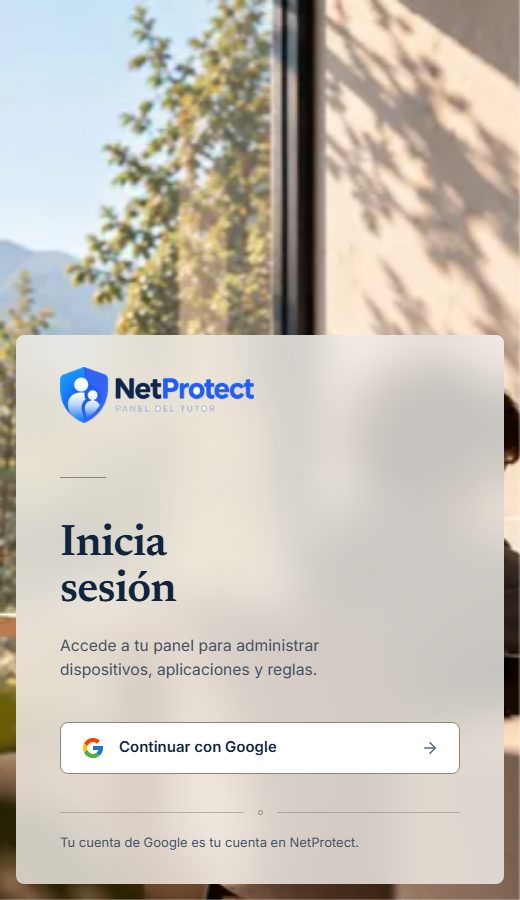
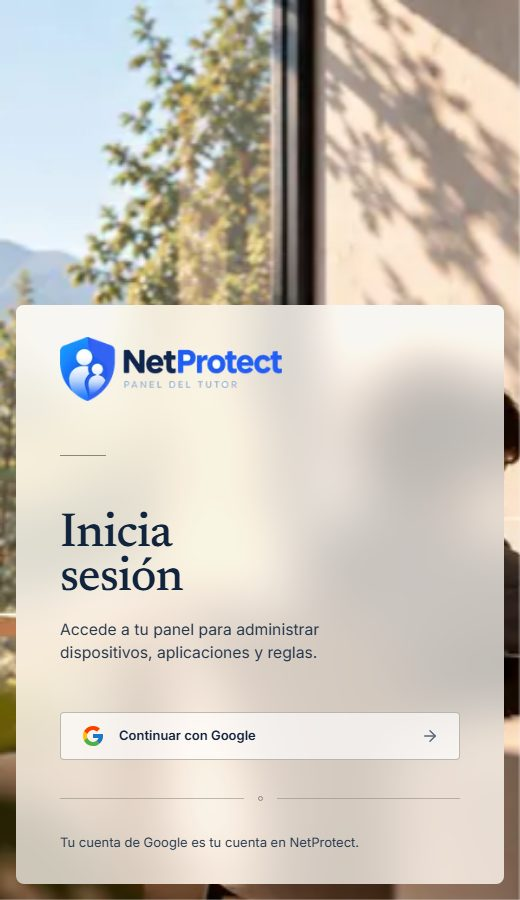
fix(web): login mas transparente y ajustado a la referencia (S60)
Tras ver el login en el navegador, el dueno pidio mas transparencia en el panel y ajustar
letras, espacios y tamanos a mock-01-login.jpg.

La foto del paquete es identica a study.jpg: la pared lisa de la referencia es un montaje y
no existe en la foto, que tiene la ventana con arboles justo bajo el panel. Un cristal solo
mas transparente salia gris, asi que el panel usa 60 % de crema (75 % en movil) con
backdrop-filter blur 28, brightness 1.5 y saturate .9: la luminosidad media bajo la franja
queda en 0,74 frente a 0,75 de la referencia.

Las proporciones se leyeron de la referencia: franja del 28,5 % que empieza al 6,5 %,
contenido a 4,5 % del borde y bloque que arranca al 12 % de la altura. Logo de 64 px, titulo
de 5,3vw con peso 500 (se anade a la fuente; solo se descarga si se usa), boton de Google
mas pequeno, con esquinas cortas y placa clara translucida.

Contraste medido con la foto real: titulo 5,8-6,1:1 y textos pequenos 4,6-4,9:1 en
escritorio; en movil el 60 % daba 4,35:1, por eso usa el 75 %. Quedan como diferencias
conocidas el logo oficial y la franja izquierda con arboles. Capturas en docs/redesign/s60.

Changed region(s): [[0.0923, 0.56, 0.8923, 0.8711], [0.0308, 0.3111, 0.9846, 0.4667]]

diff --git a/frontend/src/components/login/LoginScreen.module.css b/frontend/src/components/login/LoginScreen.module.css
@@ -27,9 +27,13 @@
   animation: login-photo 1100ms var(--ease) both;
 }
 
-/* Frosted glass: the photograph shows through, blurred. 80% cream keeps the title at ~9:1 and the
-   small texts at ~5:1 over the worst pixel of the photograph under the panel (measured on
-   study.jpg at 1280x720, 1600x900 and 1920x1080), which is why the muted greys are darker here. */
+/* Frosted glass: the photograph shows through, blurred and lightened. Under this strip study.jpg is
+   a window full of dark trees, not the plain wall of the mockup, so a see-through panel alone turns
+   grey: `brightness(1.5)` lifts the backdrop to the mockup's mean luminance (0.74 vs 0.75) before the
+   60% cream veil. Measured on the real photograph at 1280x720 to 1920x1080, the worst pixel under
+   the strip gives the title ~5.8-6.1:1 and the small texts (92% navy) ~4.6-4.9:1. The narrow-screen
+   card lies over the dark hoodie instead, where 60% gave only ~4.35:1, so it uses a 75% veil
+   (~6.5:1) and the see-through 60% is declared again for the desktop strip below. */
 .panel {
   position: relative;
   z-index: 1;
@@ -38,9 +42,9 @@
   margin: var(--space-4);
   padding: var(--space-8) var(--space-6);
   border-radius: var(--radius-lg);
-  background: color-mix(in srgb, var(--color-bg) 80%, transparent);
-  -webkit-backdrop-filter: blur(22px) saturate(1.1);
-  backdrop-filter: blur(22px) saturate(1.1);
+  background: color-mix(in srgb, var(--color-bg) 75%, transparent);
+  -webkit-backdrop-filter: blur(28px) brightness(1.5) saturate(0.9);
+  backdrop-filter: blur(28px) brightness(1.5) saturate(0.9);
 }
 
 /* No backdrop-filter (old browsers): without the blur the photograph would run through the text,
@@ -70,22 +74,26 @@
 
 /* h1: colour and the serif voice come from globals.css (`h1,h2,h3,h4`). */
 .title {
-  margin: clamp(var(--space-6), 5vh, var(--space-12)) 0 0;
-  font-size: clamp(2.75rem, 1rem + 3.4vw, var(--text-5xl));
-  line-height: 1.04;
+  margin: clamp(var(--space-6), 6.4vh, var(--space-16)) 0 0;
+  /* Sized from the viewport like the mockup (about 5.3% of its width), not from --text-5xl, which
+     stops at 64px and left the title ~18% smaller than the mockup. The mockup's serif is lighter than
+     the global 600 of h1 but heavier than 400, hence 500. */
+  font-size: clamp(3rem, 5.3vw, 6rem);
+  font-weight: 500;
+  line-height: 0.92;
   letter-spacing: -0.02em;
 }
 
 .subtitle {
   max-width: 28ch;
-  margin: var(--space-5) 0 0;
+  margin: var(--space-4) 0 0;
   font-size: clamp(var(--text-md), 0.9rem + 0.25vw, 17px);
   line-height: 1.5;
-  color: color-mix(in srgb, var(--color-navy) 80%, var(--color-bg));
+  color: color-mix(in srgb, var(--color-navy) 92%, var(--color-bg));
 }
 
 .action {
-  margin-top: clamp(var(--space-6), 4.5vh, var(--space-10));
+  margin-top: clamp(var(--space-6), 5.2vh, 52px);
   width: 100%;
 }
 
@@ -125,10 +133,10 @@
 }
 
 .footnote {
-  margin: 18px 0 0;
+  margin: 32px 0 0;
   font-size: var(--text-sm);
   line-height: 1.5;
-  color: color-mix(in srgb, var(--color-navy) 80%, var(--color-bg));
+  color: color-mix(in srgb, var(--color-navy) 92%, var(--color-bg));
 }
 
 @media (min-width: 1024px) {
@@ -139,13 +147,18 @@
   }
 
   /* A full-height glass strip, inset from the left edge so a band of photograph frames it. */
+  /* Proportions read off the mockup (1500px wide): the strip is 28.5% wide and starts at 6.5%; the
+     content sits 4.5% in from its left edge and 2.8% from the right, so it is ~21% wide. The extra
+     bottom padding lifts the block a little above the vertical centre, as in the mockup. */
   .panel {
-    width: clamp(420px, 29vw, 540px);
+    width: clamp(420px, 28.5vw, 540px);
     min-height: 100vh;
     min-height: 100dvh;
     margin: 0 0 0 clamp(var(--space-6), 6.5vw, 120px);
-    padding: var(--space-12) clamp(var(--space-8), 3.6vw, 64px);
+    padding: clamp(var(--space-8), 12vh, 160px) 2.8vw var(--space-12) clamp(var(--space-8), 4.5vw, 84px);
+    align-items: flex-start;
     border-radius: 0;
+    background: color-mix(in srgb, var(--color-bg) 60%, transparent);
   }
 
   .content {

diff --git a/frontend/src/components/login/GoogleButton.module.css b/frontend/src/components/login/GoogleButton.module.css
@@ -7,20 +7,22 @@
 }
 
 /* The button starts from the neutral `:where(button)` reset in globals.css (transparent, no border,
-   inherited font), so everything that makes it look like a button is declared here. The border is
-   --color-border-strong: a control edge needs 3:1 against the page. Focus uses the global ring. */
+   inherited font), so everything that makes it look like a button is declared here. It sits on the
+   frosted login panel, so like the mockup it is a light, slightly see-through plate with a soft edge
+   and small square corners. The edge is no longer 3:1: the control is identified by its fill, the
+   Google mark, the label and the arrow, not by the border alone. Focus uses the global ring. */
 .button {
   display: flex;
   align-items: center;
   gap: 14px;
-  height: clamp(52px, 4.2vw, 60px);
+  height: clamp(48px, 3.8vw, 60px);
   width: 100%;
   padding: 0 var(--space-5);
-  border: 1px solid var(--color-border-strong);
-  border-radius: var(--radius-lg);
-  background: var(--color-surface);
+  border: 1px solid color-mix(in srgb, var(--color-border-strong) 55%, transparent);
+  border-radius: var(--radius-sm);
+  background: color-mix(in srgb, var(--color-surface) 66%, transparent);
   color: var(--color-navy);
-  font-size: var(--text-md);
+  font-size: var(--text-sm);
   font-weight: 600;
   text-align: left;
   cursor: pointer;

diff --git a/frontend/src/app/layout.tsx b/frontend/src/app/layout.tsx
@@ -12,12 +12,13 @@ const inter = Inter({ subsets: ["latin"], variable: "--font-inter", display: "sw
 // independent 1x renders showed Playfair's hairline strokes (the crossbar of the "e") vanishing, so
 // titles read "Gcoccrcas". Decision D1 in docs/redesign/fase-0-informe.md stays open for the designer;
 // swapping the face again means editing this constant and `--font-serif` in globals.css. Only the
-// 400/600 weights and the italic used by `.quote` are loaded.
+// 400/500/600 weights and the italic used by `.quote` are loaded; 500 is the login title's weight
+// (the mockup sits between 400 and 600) and the browser only downloads the weights a page uses.
 const serif = Newsreader({
   subsets: ["latin"],
   variable: "--font-serif-face",
   display: "swap",
-  weight: ["400", "600"],
+  weight: ["400", "500", "600"],
   style: ["normal", "italic"]
 });
 

diff --git a/frontend/src/components/login/LoginScreen.tsx b/frontend/src/components/login/LoginScreen.tsx
@@ -26,7 +26,7 @@ export function LoginScreen({ authStatus }: { authStatus: "loading" | "unauthent
     <main className={styles.screen}>
       <section className={styles.panel}>
         <div className={styles.content}>
-          <Logo height={56} />
+          <Logo height={64} />
 
           <span className={styles.rule} aria-hidden="true" />
 

diff --git a/docs/sprint-60.md b/docs/sprint-60.md
@@ -92,17 +92,29 @@ escribir). Un commit por unidad de trabajo, con el porqué. Se marca solo con ev
 - [ ] T7 — e2e: login visible, prueba de teclado/foco y vistas S56–S59. Ruta: inline.
 - [x] T9 — Login: foto a pantalla completa con el panel como cristal desenfocado (pedido del dueño al revisar el web; se
   hace antes del cierre T8). Ruta: inline. Antes: rejilla de dos columnas, panel crema sólido y foto solo a la derecha.
-  Ahora (`login/LoginScreen.module.css` y `.tsx`): la foto cubre toda la pantalla en `position: absolute; inset: 0` y el
-  panel es una franja de cristal (`color-mix` de `--color-bg` al 80 % + `backdrop-filter: blur(22px)`), de alto completo y
-  separada del borde izquierdo en escritorio; en pantallas estrechas es una tarjeta abajo con una banda de foto encima.
-  `@supports not (backdrop-filter)` cae a un panel casi sólido; `sizes` de la imagen pasa a `100vw`.
-  Contraste, medido sobre la foto real desenfocada bajo el panel (peor píxel, 1280×720, 1600×900 y 1920×1080): título
-  navy 9,1–9,2:1; subtítulo y nota al pie pasan de `--color-text-muted` (3,35:1, no cumplía) a un navy suavizado
-  `#3e4d60` (5,0–5,05:1).
-  Evidencia: capturas de Chrome sin interfaz sobre el `web` reconstruido, `docs/redesign/s60/login-1600.jpg` y
-  `login-520.jpg` (la ventana más estrecha que admite Chrome es ~500 px: no se pudo capturar a 390 px, y a 390 la
-  tarjeta tendría 310 px de contenido). `eslint` y `tsc` limpios. **Pendiente:** verlo en un teléfono o a 390 px
-  reales; en móvil la tarjeta tapa la cara del niño de la foto (no se ajustó `object-position`).
+  Primera pasada: la foto cubre toda la pantalla (`position: absolute; inset: 0`) y el panel pasa a ser una franja de
+  cristal de alto completo, separada del borde izquierdo en escritorio; en pantallas estrechas, una tarjeta abajo con una
+  banda de foto encima. `@supports not (backdrop-filter)` cae a un panel casi sólido; `sizes` de la imagen pasa a `100vw`.
+  **Segunda pasada, tras ver el resultado el dueño con la referencia `mock-01-login.jpg`:** faltaba transparencia y ajustar
+  letra, espacios y tamaños. Se descubrió que la foto del paquete (`photo-login-study.jpg`) es **idéntica** a
+  `public/login/study.jpg` (mismo hash): la pared lisa que se ve a la izquierda de la referencia es un montaje y no existe
+  en la foto, que tiene la ventana con árboles justo bajo el panel. Un cristal solo más transparente salía gris, así que el
+  cristal pasa a `background` al 60 % (75 % en móvil) con `backdrop-filter: blur(28px) brightness(1.5) saturate(0.9)`: la
+  luminosidad media bajo el panel queda en 0,74 frente a 0,75 de la referencia.
+  Proporciones leídas de la referencia (1500 px): franja del 28,5 % que empieza al 6,5 %, contenido a 4,5 % del borde,
+  bloque que arranca al 12 % de la altura (`align-items: flex-start`); logo a 64 px; título `clamp(3rem, 5.3vw, 6rem)`,
+  `line-height: .92`, peso 500 (se añade a `layout.tsx`: el navegador solo descarga los pesos que se usan); botón de Google
+  de 14 px, esquinas pequeñas y placa clara semitransparente con borde suave (el control lo identifican el relleno, la marca
+  de Google, la etiqueta y la flecha, no solo el borde); huecos del bloque ajustados hasta coincidir con la referencia.
+  **Contraste**, medido sobre la foto real desenfocada y aclarada bajo el panel (peor píxel): escritorio 1280×720 a 1920×1080,
+  título 5,8–6,1:1 y textos pequeños (navy al 92 %, `#23344b`) 4,6–4,9:1; móvil con el 60 % daba 4,35:1 (no cumplía) y por eso
+  usa el 75 % (6,5:1). Antes, subtítulo y nota al pie usaban `--color-text-muted` (3,35:1, tampoco cumplía sobre el cristal).
+  Evidencia: capturas de Chrome sin interfaz sobre el `web` reconstruido, en `docs/redesign/s60/`: `login-1500.jpg`,
+  `login-520.jpg` y `login-vs-mockup.jpg` (referencia a la izquierda, resultado a la derecha, recorte del panel). Chrome no
+  admite ventanas de menos de ~500 px, así que no hay captura a 390 px. `eslint` y `tsc` limpios.
+  **Diferencias que se mantienen:** el logo es el oficial (la referencia dibuja un wordmark serif propio y escribe
+  «NetProject»); la franja izquierda muestra árboles de la foto en lugar de pared lisa; la tarjeta móvil tapa la cara del
+  niño (no se ajustó `object-position`). **Pendiente:** verlo en un teléfono o a 390 px reales.
 - [ ] T8 — Verificación y cierre: `npm run lint && npm run build` y e2e vía `verifier`, `docs/sprint-60-evidence.md`,
   `/cerrar-sprint 60`.
 
